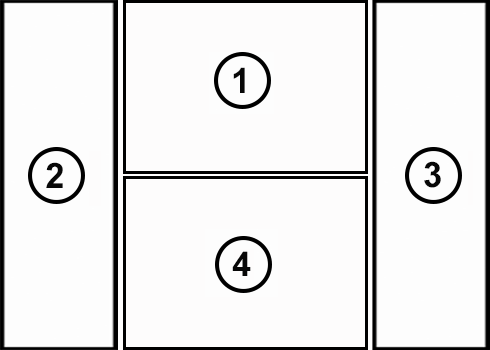
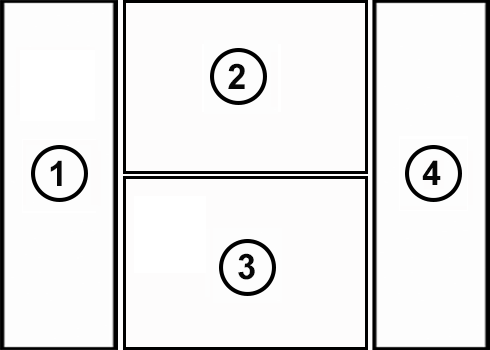
bug fixes for homepage, lookbook and contests module

diff --git a/app/code/local/FactoryX/Homepage/Block/Homepage.php b/app/code/local/FactoryX/Homepage/Block/Homepage.php
@@ -143,9 +143,9 @@ class FactoryX_Homepage_Block_Homepage extends Mage_Core_Block_Template
 					break;
 				case '4-layout/1-top-1-bottom-2-bottomright':
 					$this->setTop($homepage->getImage(1));
-					$this->setBottom($homepage->getImage(4));
-					$this->setBottomRight1($homepage->getImage(2));
-					$this->setBottomRight2($homepage->getImage(3));
+					$this->setBottom($homepage->getImage(2));
+					$this->setBottomRight1($homepage->getImage(3));
+					$this->setBottomRight2($homepage->getImage(4));
 					break;
 				case '4-layout/1-top-2-bottomleft-1-bottom':
 					$this->setTop($homepage->getImage(1));
@@ -154,10 +154,10 @@ class FactoryX_Homepage_Block_Homepage extends Mage_Core_Block_Template
 					$this->setBottomLeft2($homepage->getImage(3));
 					break;
 				case '4-layout/1-top-2-topright-1-bottom':
-					$this->setTop($homepage->getImage(4));
+					$this->setTop($homepage->getImage(2));
 					$this->setBottom($homepage->getImage(1));
-					$this->setTopRight1($homepage->getImage(2));
-					$this->setTopRight2($homepage->getImage(3));
+					$this->setTopRight1($homepage->getImage(3));
+					$this->setTopRight2($homepage->getImage(4));
 					break;
 				case '4-layout/1-top-3-bottom':
 					$this->setTop($homepage->getImage(1));
@@ -208,10 +208,10 @@ class FactoryX_Homepage_Block_Homepage extends Mage_Core_Block_Template
 					$this->setTop2($homepage->getImage(4));
 					break;
 				case '4-layout/1-left-1-middletop-1-middlebottom-1-right':
-					$this->setMiddletop($homepage->getImage(1));
-					$this->setLeft($homepage->getImage(2));
-					$this->setRight($homepage->getImage(3));
-					$this->setMiddlebottom($homepage->getImage(4));
+					$this->setLeft($homepage->getImage(1));
+					$this->setMiddletop($homepage->getImage(2));
+					$this->setMiddlebottom($homepage->getImage(3));
+					$this->setRight($homepage->getImage(4));
 					break;
 				case '4-layout/1-left-2-middle-1-right':
 					$this->setLeft($homepage->getImage(1));
@@ -263,8 +263,8 @@ class FactoryX_Homepage_Block_Homepage extends Mage_Core_Block_Template
 				case '5-layout/2-top-1-middle-2-bottom':
 					$this->setMiddle($homepage->getImage(1));
 					$this->setTop1($homepage->getImage(2));
-					$this->setTop2($homepage->getImage(4));
-					$this->setBottom1($homepage->getImage(3));
+					$this->setTop2($homepage->getImage(3));
+					$this->setBottom1($homepage->getImage(4));
 					$this->setBottom2($homepage->getImage(5));
 					break;
 				case '5-layout/2-top-2-middle-1-bottom':
@@ -275,11 +275,11 @@ class FactoryX_Homepage_Block_Homepage extends Mage_Core_Block_Template
 					$this->setMiddle2($homepage->getImage(5));
 					break;
 				case '5-layout/1-top-2-middle-2-bottom':
-					$this->setTop1($homepage->getImage(2));
-					$this->setTop2($homepage->getImage(4));
-					$this->setMiddle1($homepage->getImage(3));
-					$this->setMiddle2($homepage->getImage(5));
-					$this->setBottom($homepage->getImage(1));
+					$this->setTop($homepage->getImage(1));
+					$this->setMiddle1($homepage->getImage(2));
+					$this->setMiddle2($homepage->getImage(3));
+					$this->setBottom1($homepage->getImage(4));
+					$this->setBottom2($homepage->getImage(5));
 					break;
 				case '5-layout/4-left-1-right':
 					$this->setRight($homepage->getImage(1));
@@ -375,9 +375,9 @@ class FactoryX_Homepage_Block_Homepage extends Mage_Core_Block_Template
 				case '5-layout/1-top-1-middleleft-1-middle-1-middleright-1-bottom':
 					$this->setTop($homepage->getImage(1));
 					$this->setMiddleleft($homepage->getImage(2));
-					$this->setMiddleright($homepage->getImage(3));
-					$this->setBottom($homepage->getImage(4));
-					$this->setMiddle($homepage->getImage(5));
+					$this->setMiddle($homepage->getImage(3));
+					$this->setMiddleright($homepage->getImage(4));
+					$this->setBottom($homepage->getImage(5));
 					break;
 				case '5-layout/1-top-1-middletop-1-middle-1-middlebottom-1-bottom':
 					$this->setTop($homepage->getImage(1));

diff --git a/app/code/local/FactoryX/Homepage/controllers/Adminhtml/HomepageController.php b/app/code/local/FactoryX/Homepage/controllers/Adminhtml/HomepageController.php
@@ -17,6 +17,22 @@ class FactoryX_Homepage_Adminhtml_HomepageController extends Mage_Adminhtml_Cont
                 ->renderLayout();
     }
 	
+	public function deleteAction() {
+        $homepageId = (int) $this->getRequest()->getParam('id');
+        if ($homepageId) {
+            try {
+                $model = Mage::getModel('homepage/homepage')->load($homepageId);
+				$model->delete();
+                Mage::getSingleton('adminhtml/session')->addSuccess(Mage::helper('homepage')->__('Homepage was successfully deleted'));
+                $this->_redirect('*/*/');
+            } catch (Exception $e) {
+                Mage::getSingleton('adminhtml/session')->addError($e->getMessage());
+                $this->_redirect('*/*/edit', array('id' => $this->getRequest()->getParam('id')));
+            }
+        }
+        $this->_redirect('*/*/');
+    }
+	
 	public function newAction() 
 	{
 		if ($data = $this->getRequest()->getPost()) 
@@ -244,6 +260,7 @@ class FactoryX_Homepage_Adminhtml_HomepageController extends Mage_Adminhtml_Cont
 			
 			try 
 			{
+				
 				// Loop based on the amount of pictures chosen
 				for($i=1;$i<=$data['amount'];$i++)
 				{
@@ -429,7 +446,7 @@ class FactoryX_Homepage_Adminhtml_HomepageController extends Mage_Adminhtml_Cont
 					{						
 						// Enabled homepages for the store (except the current)
 						$enabledHomepages = Mage::getResourceModel('homepage/homepage_collection')
-							->addStatusFilter(1)
+							->addStatusFilter(FactoryX_Homepage_Model_Status::STATUS_ENABLED)
 							->addNotIdsFilter($model->getId())
 							->addStoreFilter($storeId);
 							
@@ -438,7 +455,7 @@ class FactoryX_Homepage_Adminhtml_HomepageController extends Mage_Adminhtml_Cont
 							// Disable all previously enabled homepages
 							foreach ($enabledHomepages as $enabledHomepage)
 							{
-								$enabledHomepage->setStatus(0);
+								$enabledHomepage->setStatus(FactoryX_Homepage_Model_Status::STATUS_DISABLED);
 								$enabledHomepage->save();
 							}
 						}
@@ -448,7 +465,7 @@ class FactoryX_Homepage_Adminhtml_HomepageController extends Mage_Adminhtml_Cont
 				{
 					// Enabled homepages (except the current)
 					$enabledHomepages = Mage::getResourceModel('homepage/homepage_collection')
-							->addStatusFilter(1)
+							->addStatusFilter(FactoryX_Homepage_Model_Status::STATUS_ENABLED)
 							->addNotIdsFilter($model->getId());
 							
 					if (count($enabledHomepages))
@@ -456,7 +473,7 @@ class FactoryX_Homepage_Adminhtml_HomepageController extends Mage_Adminhtml_Cont
 						// Disable all previously enabled homepages
 						foreach ($enabledHomepages as $enabledHomepage)
 						{
-							$enabledHomepage->setStatus(0);
+							$enabledHomepage->setStatus(FactoryX_Homepage_Model_Status::STATUS_DISABLED);
 							$enabledHomepage->save();
 						}
 					}
@@ -540,6 +557,25 @@ class FactoryX_Homepage_Adminhtml_HomepageController extends Mage_Adminhtml_Cont
             }
         }
         $this->_redirect('*/*/index');
+    }
+	
+	/**
+     * Create homepage duplicate
+     */
+    public function duplicateAction()
+    {
+        $homepageId  = (int) $this->getRequest()->getParam('id');
+		$homepage = Mage::getModel('homepage/homepage')->load($homepageId);
+		
+        try {
+            $newHomepage = $homepage->duplicate();
+            $this->_getSession()->addSuccess($this->__('The homepage has been duplicated.'));
+            $this->_redirect('*/*/edit', array('_current'=>true, 'id'=>$newHomepage->getId()));
+        } catch (Exception $e) {
+            Mage::logException($e);
+            $this->_getSession()->addError($e->getMessage());
+            $this->_redirect('*/*/edit', array('_current'=>true));
+        }
     }
 
 }

diff --git a/app/code/local/FactoryX/Homepage/Block/Adminhtml/Homepage/Edit.php b/app/code/local/FactoryX/Homepage/Block/Adminhtml/Homepage/Edit.php
@@ -11,15 +11,15 @@ class FactoryX_Homepage_Block_Adminhtml_Homepage_Edit extends Mage_Adminhtml_Blo
 		$this->_objectId = 'id';
 		$this->_blockGroup = 'homepage';
 		$this->_controller = 'adminhtml_homepage';
-		$this->_updateButton('save', 'label', Mage::helper('homepage')->__('Save Home Page'));
-		$this->_updateButton('delete', 'label', Mage::helper('homepage')->__('Delete Home Page'));
+		$this->_updateButton('save', 'label', Mage::helper('homepage')->__('Save'));
+		$this->_updateButton('delete', 'label', Mage::helper('homepage')->__('Delete'));
 		
 		// If we're editing (not creating), we add the preview button
 		if ($this->getRequest()->getParam('id')) 
 		{
 			// Add the Preview button
 			$this->_addButton('preview', array(
-				'label' => Mage::helper('homepage')->__('Preview Home Page'),
+				'label' => Mage::helper('homepage')->__('Preview'),
 				'onclick' => 'preview()',
 				'class' => 'save',
 					), -100);
@@ -28,6 +28,13 @@ class FactoryX_Homepage_Block_Adminhtml_Homepage_Edit extends Mage_Adminhtml_Blo
 				function preview(){
 					window.open('" . $this->getPreviewUrl() . "', '_blank');
 				}";
+				
+			// Add the Duplicate button
+			$this->_addButton('preview', array(
+				'label' => Mage::helper('homepage')->__('Duplicate'),
+				'onclick' => 'setLocation(\'' . $this->getDuplicateUrl() . '\')',
+				'class' => 'add',
+					), -100);
 		}
 		
 		// Add the Save and Continue button
@@ -64,5 +71,13 @@ class FactoryX_Homepage_Block_Adminhtml_Homepage_Edit extends Mage_Adminhtml_Blo
 	public function getPreviewUrl()
     {
         return Mage::getUrl('homepage/index/preview', array($this->_objectId => $this->getRequest()->getParam($this->_objectId)));
+    }
+	
+	/**
+	 *	Getter for the duplicate URL
+	 */
+	public function getDuplicateUrl()
+    {
+        return $this->getUrl('*/*/duplicate', array('_current'=>true));
     }
 }

diff --git a/app/code/local/FactoryX/Lookbook/Block/Adminhtml/Template/Grid/Renderer/Action.php b/app/code/local/FactoryX/Lookbook/Block/Adminhtml/Template/Grid/Renderer/Action.php
@@ -21,10 +21,32 @@ class FactoryX_Lookbook_Block_Adminhtml_Template_Grid_Renderer_Action extends Ma
             '#'	=> Mage::helper('lookbook')->__('Edit')
         );
 
+		if (Mage::app()->isSingleStoreMode())
+		{
+			$viewUrl = $this->getUrl("lookbook/index/view", array('id' => $row->getId(),'_store' => 'default'));
+		}
+		else
+		{
+			// Database resources
+			$resource = Mage::getSingleton('core/resource');
+			$readConnection = $resource->getConnection('core_read');
+			
+			// Get the contest related stores
+			$query = "SELECT store_id 
+						FROM {$resource->getTableName('lookbook/store')}
+						WHERE lookbook_id = {$row->getId()}";
+			
+			// We use the first store URL even if there's several stores for the same lookbook
+			$lookbookStoreId = $readConnection->fetchOne($query);
+								
+			if ($lookbookStoreId)	$viewUrl = Mage::getUrl("lookbook/index/view",array('id' => $row->getId(),'_store'=>$lookbookStoreId));
+			else $viewUrl = Mage::getUrl("lookbook/index/view", array('id' => $row->getId(),'_store' => 'default'));
+		}
+		
 		// link to the frontend view
         $actions[] = array(
             '@' => array(
-                'href'  => $this->getUrl("lookbook/index/view", array('id' => $row->getId(),'_store' => 'default')),
+                'href'  => $viewUrl,
                 'target'=>	'_blank'
             ),
             '#'	=> Mage::helper('lookbook')->__('View')

diff --git a/app/code/local/FactoryX/Homepage/Model/Homepage.php b/app/code/local/FactoryX/Homepage/Model/Homepage.php
@@ -66,4 +66,40 @@ class FactoryX_Homepage_Model_Homepage extends Mage_Core_Model_Abstract
 							
 		return $homepageImages;
 	}
+	
+	/**
+     * Create duplicate
+     *
+     * @return FactoryX_Homepage_Model_Homepage
+     */
+    public function duplicate()
+    {
+		$data = $this->getData();
+		
+        /* @var $newHomepage FactoryX_Homepage_Model_Homepage */
+        $newHomepage = Mage::getModel('homepage/homepage')->setData($data)
+            ->setStatus(FactoryX_Homepage_Model_Status::STATUS_DISABLED)
+            ->setCreatedAt(null)
+            ->setEdited(Mage::getModel('core/date')->gmtDate())
+            ->setId(null)
+            ->setStoreId(Mage::app()->getStore()->getId());
+
+        $newHomepage->save();
+		
+		// Save the images to the database
+		foreach ($this->getAllImages() as $image)
+		{
+			// We duplicate the images
+			$pictureModel = Mage::getModel('homepage/image');
+			$pictureModel->setUrl($image->getUrl());
+			$pictureModel->setLink($image->getLink());
+			$pictureModel->setAlt($image->getAlt());
+			$pictureModel->setPopup($image->getPopup());
+			$pictureModel->setIndex($image->getIndex());
+			$pictureModel->setHomepageId($newHomepage->getId());
+			$pictureModel->save();
+		}
+
+        return $newHomepage;
+    }
 }

diff --git a/app/code/local/FactoryX/Contests/controllers/Adminhtml/ContestsController.php b/app/code/local/FactoryX/Contests/controllers/Adminhtml/ContestsController.php
@@ -33,6 +33,22 @@ class FactoryX_Contests_Adminhtml_ContestsController extends Mage_Adminhtml_Cont
 	{
         $this->_forward('edit'); 
     }
+	
+	public function deleteAction() {
+        $contestId = (int) $this->getRequest()->getParam('id');
+        if ($contestId) {
+            try {
+                $model = Mage::getModel('contests/contest')->load($contestId);
+				$model->delete();
+                Mage::getSingleton('adminhtml/session')->addSuccess(Mage::helper('contests')->__('Contest was successfully deleted'));
+                $this->_redirect('*/*/');
+            } catch (Exception $e) {
+                Mage::getSingleton('adminhtml/session')->addError($e->getMessage());
+                $this->_redirect('*/*/edit', array('id' => $this->getRequest()->getParam('id')));
+            }
+        }
+        $this->_redirect('*/*/');
+    }
 
     public function viewAction() 
 	{

diff --git a/app/code/local/FactoryX/Lookbook/controllers/Adminhtml/LookbookController.php b/app/code/local/FactoryX/Lookbook/controllers/Adminhtml/LookbookController.php
@@ -245,7 +245,7 @@ class FactoryX_Lookbook_Adminhtml_LookbookController extends Mage_Adminhtml_Cont
 						
 				// Handle errors
 				// A shop the look image must be provided if show shop the look is enabled
-				if ($data['show_shop_pix'] == 1 && !isset($data['shop_pix']))
+				if (array_key_exists('show_shop_pix',$data) && $data['show_shop_pix'] == 1 && !isset($data['shop_pix']))
 				{
 					// We use session to set the active tab to show where the error is
 					Mage::getSingleton('admin/session')->setActiveTab('general_tab');

diff --git a/app/code/local/FactoryX/Lookbook/Block/Lookbook/Navigation.php b/app/code/local/FactoryX/Lookbook/Block/Lookbook/Navigation.php
@@ -10,7 +10,7 @@ class FactoryX_Lookbook_Block_Lookbook_Navigation extends Mage_Core_Block_Templa
 	 */
 	public function getActiveLookbooks()
 	{
-		$activeLookbooks = Mage::getModel('lookbook/lookbook')->getCollection()->addStatusFilter(1)->addIncludeInNavFilter(1);
+		$activeLookbooks = Mage::getModel('lookbook/lookbook')->getCollection()->addStatusFilter(1)->addIncludeInNavFilter(1)->addStoreFilter();
 		
 		return $activeLookbooks;
 	}
